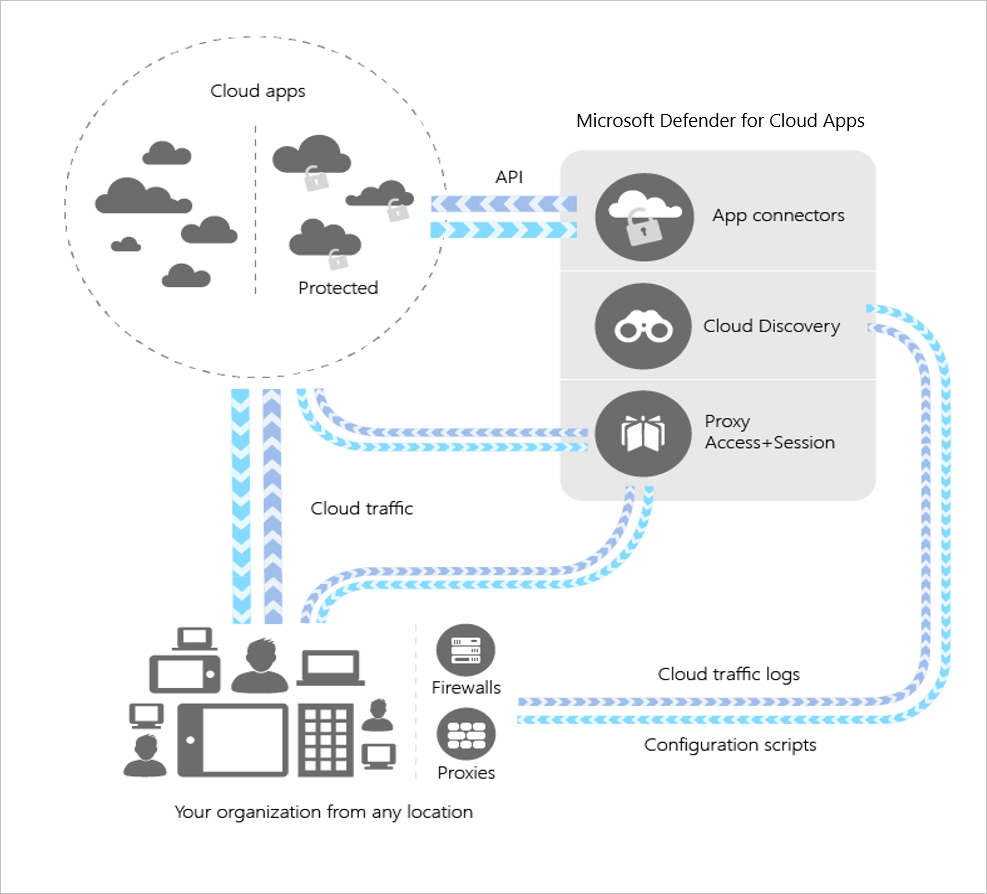
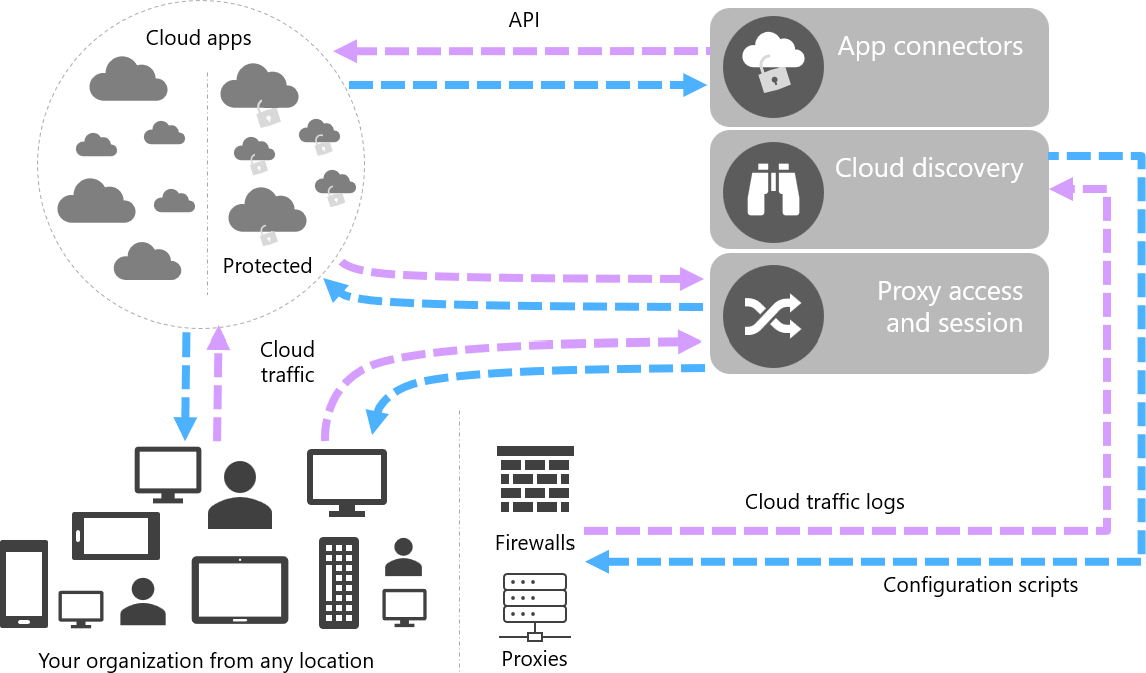
full draft

diff --git a/CloudAppSecurityDocs/what-is-defender-for-cloud-apps.md b/CloudAppSecurityDocs/what-is-defender-for-cloud-apps.md
@@ -1,102 +1,110 @@
 ---
 title: Overview
 description: This article describes Microsoft Defender for Cloud Apps and how it works.
-ms.date: 01/29/2023
+ms.date: 06/14/2023
 ms.topic: overview
 ---
 # Microsoft Defender for Cloud Apps overview
 
 [!INCLUDE [Banner for top of topics](includes/banner.md)]
 
-> [!NOTE]
-> For information about Office 365 Cloud App Security, see [What are the differences between Microsoft Defender for Cloud Apps and Office 365 Cloud App Security?](editions-cloud-app-security-o365.md)
+Software as a service (SaaS) apps are ubiquitous across hybrid work environments, and protecting SaaS apps and the important data they store is a big challenge for organizations. The rise in app usage, combined with employees accessing company resources outside of the corporate perimeter has also introduced new attack vectors. To combat these attacks effectively, security teams need an approach that protects their data within cloud apps beyond the traditional scope of cloud access security brokers (CASBs).
 
-Microsoft Defender for Cloud Apps is a Cloud Access Security Broker (CASB) that supports various deployment modes including log collection, API connectors, and reverse proxy. It provides rich visibility, control over data travel, and sophisticated analytics to identify and combat cyberthreats across all your Microsoft and third-party cloud services.
+Microsoft Defender for Cloud Apps delivers full protection for SaaS applications, helping you monitor and protect your cloud app data across the following feature areas:
 
-Microsoft Defender for Cloud Apps natively integrates with leading Microsoft solutions and is designed with security professionals in mind. It provides simple deployment, centralized management, and innovative automation capabilities.
+- **Traditional cloud access security broker (CASB) functionality**, such as Shadow IT discovery, visibility into cloud app usage, protection against app-based threats from anywhere in the cloud, and information protection and compliance assessments.
 
-For information about licensing, see the [Microsoft 365 licensing datasheet](https://aka.ms/M365EnterprisePlans).
+- **SaaS Security Posture Management (SSPM) features**, enabbling security teams to improve the organization’s security posture
 
-## What is a CASB?
+- **Advanced threat protection**, as part of Microsoft's extended detection and response (XDR) solution, enabling powerful correlation of signal and visibility across the full kill chain of advanced attacks
 
-Moving to the cloud increases flexibility for employees and IT teams. However, it also introduces new challenges and complexities for keeping your organization secure. To get the full benefit of cloud apps and services, an IT team must find the right balance of supporting access while protecting critical data.
+- **App-to-app protection**, addressing threat scenarios where apps exchange data directly
 
-This is where a Cloud Access Security Broker steps in to address the balance, adding safeguards to your organization's use of cloud services by enforcing your enterprise security policies. As the name suggests, CASBs act as a gatekeeper to broker access in real time between your enterprise users and cloud resources they use, wherever your users are located and whatever device they're using.
+## Discover SaaS applications
 
-CASBs do this by discovering and providing visibility into Shadow IT and app use, monitoring user activities for anomalous behaviors, controlling access to your resources, providing the ability to classify and prevent sensitive information leak, protecting against malicious actors, and assessing the compliance of cloud services.
+Defender for Cloud Apps shows the full picture of risks to your environment from SaaS app usage and resources, and gives you control of what’s being used and when. 
 
-CASBs address security gaps in an organization's use of cloud services by providing granular visibility into and control over user activities and sensitive data. CASB coverage scope applies broadly across SaaS, PaaS, and IaaS. For SaaS coverage, CASBs commonly work with the most popular content collaboration platforms (CCP), CRM systems, HR systems, Enterprise resource planning (ERP) solutions, service desks, office productivity suites, and enterprise social networking sites. For IaaS and PaaS coverage, several CASBs govern the API-based usage of popular cloud service providers (CSP) and extend visibility and governance to applications running in these clouds.
+- **Identify**: Defender for Cloud apps uses data based on an assessment of network traffic and an extensive app catalog to identify apps accessed by users across your organization. Defender for Cloud Apps provides details on which apps are really being used both on and off your corporate network.
 
-## Why do I need a CASB?
+    Defender for Cloud Apps detects all your cloud services, assigns each a risk ranking, and also identifies all the users and third-party apps able to sign in.
 
-You need a CASB to better understand your overall cloud posture across SaaS apps and cloud services and, as such, Shadow IT discovery and app governance are key use cases. Additionally, an organization is responsible for managing and securing its cloud platform including IAM, VMs and their compute resources, data and storage, network resources, and more. So if you're an organization that uses, or is considering using, cloud apps to your portfolio of network services, you most likely need a CASB to address the additional, unique challenges of regulating and securing your environment. For example, there are many ways for malicious actors to leverage cloud apps to get into your enterprise network and exfiltrate sensitive business data.
+- **Assess**: Evaluate discovered apps for more than 90 risk indicators, allowing you to sort through the discovered apps and assess your orgs security and compliance posture.
 
-As an organization, you need to protect your users and confidential data from the different methods employed by malicious actors. In general, CASBs should help you do this by providing a wide array of capabilities that protect your environment across the following pillars:
+- **Manage**: Set policies that monitor apps around the clock. For example, if anomalous behavior happens, like unusual spikes in usage, you're automatically alerted and guided to action.
 
-- **Visibility**: detect all cloud services; assign each a risk ranking; identify all users and third-party apps able to log in
-- **Data security**: identify and control sensitive information (DLP); respond to sensitivity labels on content
-- **Threat protection**: offer adaptive access control (AAC); provide user and entity behavior analysis (UEBA); mitigate malware
-- **Compliance**: supply reports and dashboards to demonstrate cloud governance; assist efforts to conform to data residency and regulatory compliance requirements
+For more information, see [Set up Cloud Discovery](set-up-cloud-discovery.md).
 
-## The Defender for Cloud Apps framework
+## Information protection
 
-- **Discover and control the use of Shadow IT**: Identify the cloud apps, IaaS, and PaaS services used by your organization. Investigate usage patterns, assess the risk levels and business readiness of more than 31,000 SaaS apps against more than 80 risks. Start managing them to ensure security and compliance.
+Defender for Cloud Apps identifies and helps you control sensitive information with data loss protection (DLP) features, and helps you respond to sensitivity labels on detected content.
 
-- **Protect your sensitive information anywhere in the cloud**: Understand, classify, and protect the exposure of sensitive information at rest. Leverage out-of-the box policies and automated processes to apply controls in real time across all your cloud apps.
+The Defender for Cloud Apps integration with Microsoft Purview also enables security teams to leverage out-of-the-box data classification types in their information protection policies. Microsoft provides an expansive suite of data loss protection capabilities to ensure your data is protected no matter where it is being accessed.
 
-- **Protect against cyberthreats and anomalies**: Detect unusual behavior across cloud apps to identify ransomware, compromised users or rogue applications, analyze high-risk usage and remediate automatically to limit the risk to your organization.
+Defender for Cloud Apps connects to SaaS apps to scan for files containing sensitive data uncovering which data is stored where and who is accessing it. To protect this data, organizations can implement controls such as:
 
-- **Assess the compliance of your cloud apps**: Assess if your cloud apps meet relevant compliance requirements including regulatory compliance and industry standards. Prevent data leaks to non-compliant apps, and limit access to regulated data.
+- Apply a sensitivity label
+- Block downloads to an unmanaged device
+- Remove external collaborators on confidential files
 
-## Architecture
+For more information, see [Integrate Microsoft Purview Information Protection](azip-integration.md).
 
-Defender for Cloud Apps integrates visibility with your cloud by:
+## SaaS Security Posture Management (SSPM)
 
-- Using Cloud Discovery to map and identify your cloud environment and the cloud apps your organization is using.
-- Sanctioning and unsanctioning apps in your cloud.
-- Using easy-to-deploy app connectors that take advantage of provider APIs, for visibility and governance of apps that you connect to.
-- Using Conditional Access App Control protection to get real-time visibility and control over access and activities within your cloud apps.
-- Helping you have continuous control by setting, and then continually fine-tuning, policies.
+While optimizing an organization's security posture is a critical focus area, security teams are challenged by needing to research best practices for each app individually. Defender for Cloud Apps helps you by surfacing misconfigurations and recommending specific actions to strengthen the security posture for each connected app. Recommendations are based on industry standards like the Center for Internet Security and follow best practices set by the specific app provider.
+
+Defender for Cloud Apps automatically provides SSPM data in Microsoft Secure Score, for any supported and connected app. For more information, see [User, app governance, and security configuration visibility](enable-instant-visibility-protection-and-governance-actions-for-your-apps.md#user-app-governance-and-security-configuration-visibility).
+
+
+## Extended detection and response (XDR)
+
+While cloud apps continue to be a target for adversaries trying to exfiltrate corporate data, sophisticated attacks often cross modalities—moving laterally from email as the most common entry point, to compromise endpoints and identities, before ultimately gaining access to in-app data. 
+
+Defender for Cloud Apps offers built-in adaptive access control (AAC), provides user and entity behavior analysis (UEBA), and helps you mitigate malware.
+
+Defender for Cloud Apps is also integrated directly into Microsoft 365 Defender, correlating XDR signals from the Microsoft Defender suite and providing incident-level detection, investigation, and powerful response capabilities. Integrating SaaS security into Microsoft's XDR experience gives SOC teams full kill chain visibility and improves operational efficiency and effectivity.
+
+For more information, see [Microsoft Defender for Cloud Apps in Microsoft 365 Defender](/microsoft-365/security/defender/microsoft-365-security-center-defender-cloud-apps).
+
+## App governance
+
+OAuth apps often behave unnoticed, while still having extensive permissions to access data in other apps on behalf of an employee, making OAuth apps susceptible to a compromise.
+
+Defender for Cloud Apps closes the gap on OAuth app security, helping you protect inter-app data exchange with application governance. Watch for unused apps and monitor both current and expired credentials to govern the apps used in your organization and maintain app hygiene.
+
+For more information, see [App governance in Microsoft Defender for Cloud Apps](app-governance-manage-app-governance.md).
+
+## Cloud app compliance
+
+Defender for Cloud Apps supplies reports and dashboards to demonstrate cloud governance, and assists in efforts to conform to data residency and regulatory compliance requirements.
+
+Use compliance reports to assess whether your cloud apps meet relevant compliance requirements, including regulatory compliance and industry standards. Take action based on those reports to prevent data leaks to non-compliant apps, and limit access to regulated data.
+
+For more information, see [Microsoft Defender for Cloud Apps data security and privacy](cas-compliance-trust.md).
+
+## Defender for Cloud Apps architecture
+
+The following diagram shows how Defender for Cloud Apps monitors and protects your cloud app data from multiple sources.
+
+:::image type="content" source="media/proxy-architecture.png" alt-text="Diagram of the Defender for Cloud Apps architecture." border="false":::
+
+- Cloud discovery maps and identifies your cloud environment and the cloud apps in use by your organization. Use this data to allow and block apps in your cloud.
+
+- Deploy app connectors using provider APIs for visibility and governance of connected apps.
+
+- Use conditional access app control protection to get real-time visibility and control over access and activities within your cloud apps.
+
+- Gain continuous control by setting and continuously fine-tuning policies.
 
 ![Defender for Cloud Apps architecture diagram.](media/proxy-architecture.png)
 
-### Data retention & compliance
-
-For more information about Microsoft Defender for Cloud Apps data retention and compliance, see [Microsoft Defender for Cloud Apps data security and privacy](cas-compliance-trust.md).
-
-### Cloud Discovery
-
-Cloud Discovery uses your traffic logs to dynamically discover and analyze the cloud apps that your organization is using. To create a snapshot report of your organization's cloud use, you can manually upload log files from your firewalls or proxies for analysis. To set up continuous reports, use Defender for Cloud Apps log collectors to periodically forward your logs.
-
-For more information about Cloud Discovery, see [Set up Cloud Discovery](set-up-cloud-discovery.md).
-
-### Sanctioning and unsanctioning an app
-
-You can use Defender for Cloud Apps to sanction or unsanction apps in your organization by using the *cloud app catalog*. The Microsoft team of analysts has an extensive and continuously growing catalog of over 31,000 cloud apps that are ranked and scored based on industry standards. You can use the cloud app catalog to rate the risk for your cloud apps based on regulatory certifications, industry standards, and best practices. Then, customize the scores and weights of various parameters to your organization's needs. Based on these scores, Defender for Cloud Apps lets you know how risky an app is. Scoring is based on over 90 risk factors that might affect your environment.
-
-### App connectors
-
-App connectors use APIs from cloud app providers to integrate the Defender for Cloud Apps cloud with other cloud apps. App connectors extend control and protection. They also give you access to information directly from cloud apps, for Defender for Cloud Apps analysis.
-
-To connect an app and extend protection, the app administrator authorizes Defender for Cloud Apps to access the app. Then, Defender for Cloud Apps queries the app for activity logs, and it scans data, accounts, and cloud content. Defender for Cloud Apps can enforce policies, detects threats, and provides governance actions for resolving issues.
-
-Defender for Cloud Apps uses the APIs provided by the cloud provider. Each app has its own framework and API limitations. Defender for Cloud Apps works with app providers on optimizing the use of APIs to ensure the best performance. Considering the various limitations that apps impose on APIs (such as throttling, API limits, and dynamic time-shifting API windows), the Defender for Cloud Apps engines utilize the allowed capacity. Some operations, like scanning all files in the tenant, require a large number of APIs, so they're spread over a longer period. Expect some policies to run for several hours or several days.
-
-### Conditional Access App Control protection
-
-Microsoft Defender for Cloud Apps Conditional Access App Control uses reverse proxy architecture to give you the tools you need to have real-time visibility and control over access to and activities performed within your cloud environment. With Conditional Access App Control, you can protect your organization:
-
-- Avoid data leaks by blocking downloads before they happen
-- Set rules that force data stored in and downloaded from the cloud to be protected with encryption
-- Gain visibility into unprotected endpoints so you can monitor what's being done on unmanaged devices
-- Control access from non-corporate networks or risky IP addresses
-
-### Policy control
-
-You can use policies to define your users' behavior in the cloud. Use policies to detect risky behavior, violations, or suspicious data points and activities in your cloud environment. If needed, you can use policies to integrate remediation processes to achieve complete risk mitigation. Types of policies correlate to the different types of information you might want to gather about your cloud environment and the types of remediation actions you might take.
 
 ## Next steps
 
-- Read about the basics in [Getting started with Defender for Cloud Apps](./get-started.md).
+For more information, see:
+
+- [What are the differences between Microsoft Defender for Cloud Apps and Office 365 Cloud App Security?](editions-cloud-app-security-o365.md)
+- [Microsoft 365 licensing datasheet](https://aka.ms/M365EnterprisePlans)
+- [Getting started with Defender for Cloud Apps](./get-started.md)
 
 [!INCLUDE [Open support ticket](includes/support.md)]
+

diff --git a/CloudAppSecurityDocs/includes/banner.md b/CloudAppSecurityDocs/includes/banner.md
@@ -2,6 +2,6 @@
 
 > [!NOTE]
 >
-> Microsoft Defender for Cloud Apps is now part of Microsoft 365 Defender and can be accessed through its portal at: <https://security.microsoft.com>. Microsoft 365 Defender correlates signals from the Microsoft Defender suite across endpoints, identities, email, and SaaS apps to provide incident-level detection, investigation, and powerful response capabilities. It improves your operational efficiency with better prioritization and shorter response times which protect your organization more effectively. For more information about these changes, see [Microsoft Defender for Cloud Apps in Microsoft 365 Defender](/microsoft-365/security/defender/microsoft-365-security-center-defender-cloud-apps).
+> Microsoft Defender for Cloud Apps is now part of [Microsoft 365 Defender](https://security.microsoft.com), which correlates signals from the Microsoft Defender suite across endpoints, identities, email, and SaaS apps to provide incident-level detection, investigation, and powerful response capabilities. For more information, see [Microsoft Defender for Cloud Apps in Microsoft 365 Defender](/microsoft-365/security/defender/microsoft-365-security-center-defender-cloud-apps).
 
 <!--docutune:enable -->
